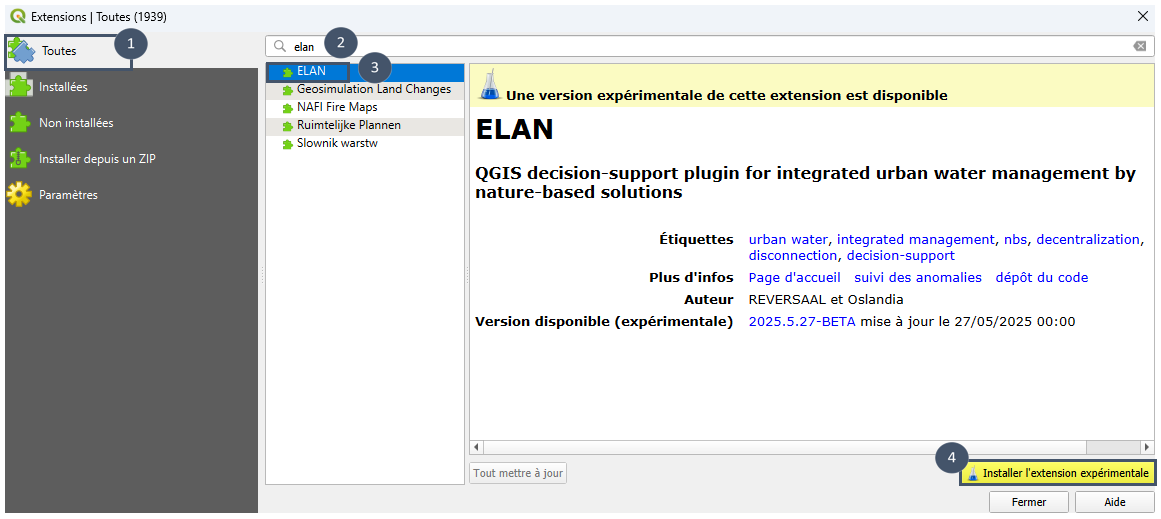
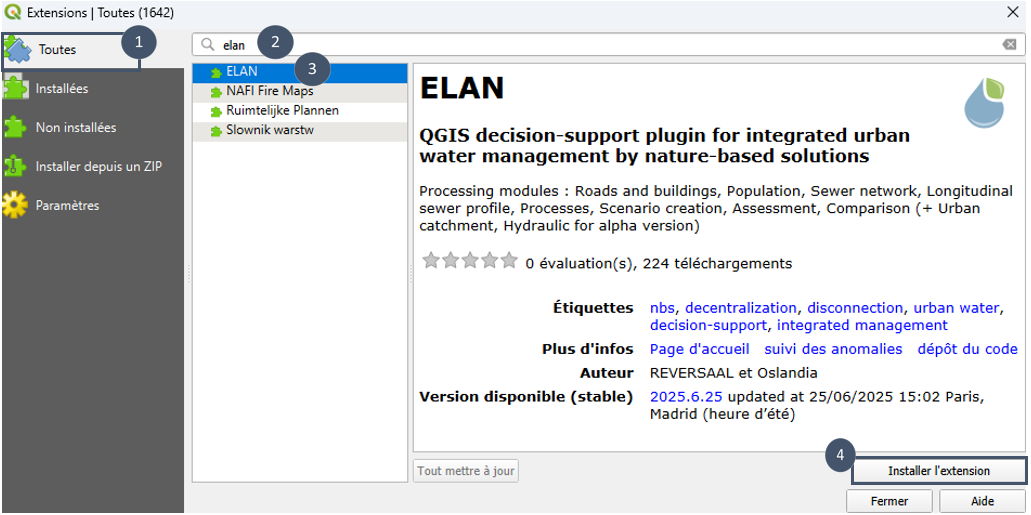
modification de installation.rst et images associées (suppression rubrique ajout du dépôt)

Changed region(s): [[0.0, 0.0, 1.0, 1.0], [0.9622, 0.0, 0.9932, 0.0311]]

diff --git a/docs/installation.rst b/docs/installation.rst
@@ -57,37 +57,17 @@ Sur Linux
     $ source elan-test/bin/activate
     $ qgis
 
-Ajout du dépôt
---------------
-.. important::
-    **L'ajout du dépôt se fait uniquement la première fois.** Il n'y a pas de mise à jour ou de réinstallation nécessaire contrairement à :ref:`l'extension <extension>` et aux :ref:`dépendances <dependances>`.
+.. _extension:
+
+Installation de l'extension
+---------------------------
 
 **1.** Ouvrir le gestionnaire d'extensions.
 
 .. image:: _static/extensions-gestionnaire.png
      :width: 314
 
-**2.** Sélectionner `Paramètres` (bulle 1). Cocher ``Afficher les extensions expérimentales`` (bulle 2) puis cliquer sur ``Ajouter...`` (bulle 3).
-
-.. image:: _static/ajout_depot.png
-    :width: 700
-
-**3.** Nommer le dépôt "elan" (bulle 1) et coller l'adresse suivante comme URL : ``https://elan7835313.gitlab.io/elan/plugins.xml`` (bulle 2). Cliquer sur ``OK`` (bulle 3).
-
-.. image:: _static/detail_depot.png
-     :width: 487
-
-.. _extension:
-
-Installation de l'extension
----------------------------
-
-**1.** Ouvrir (ou rester dans) le gestionnaire d'extensions.
-
-.. image:: _static/extensions-gestionnaire.png
-     :width: 314
-
-**2.** Dans `Toutes` (bulle 1), chercher "elan" (bulle 2). Sélectionner le plugin (bulle 3) puis cliquer sur ``Installer l'extension expérimentale`` en bas du descriptif de l'extension (bulle 4).
+**2.** Dans `Toutes` (bulle 1), chercher "elan" (bulle 2). Sélectionner le plugin (bulle 3) puis cliquer sur ``Installer l'extension`` en bas du descriptif de l'extension (bulle 4).
 
 .. image:: _static/installation_elan.png
     :width: 700
